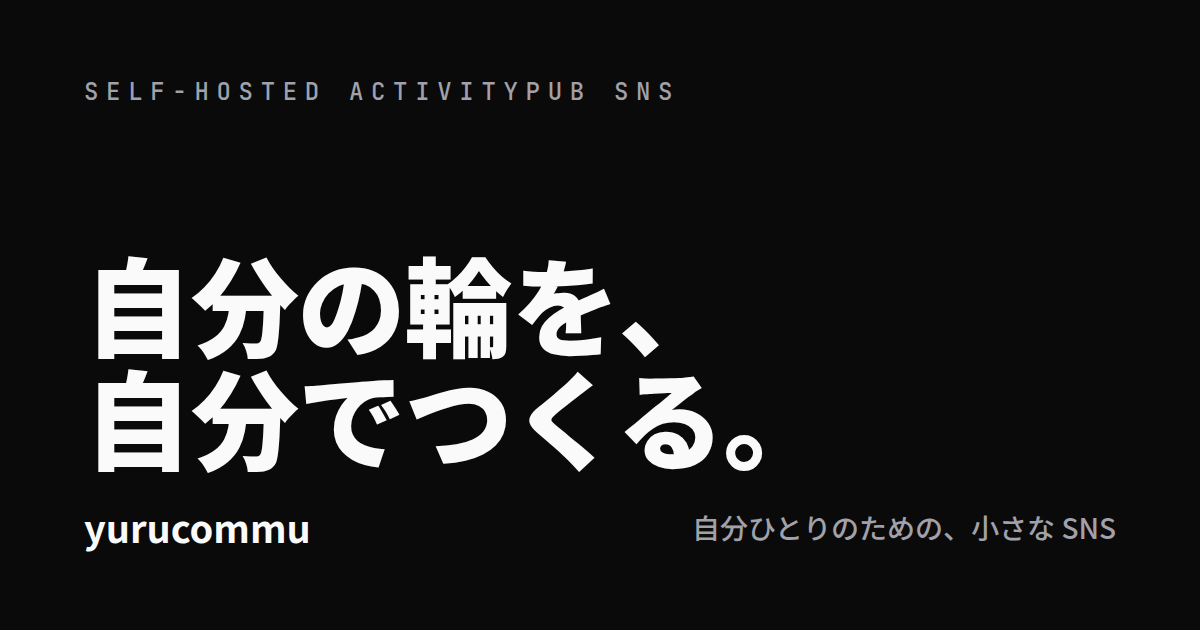
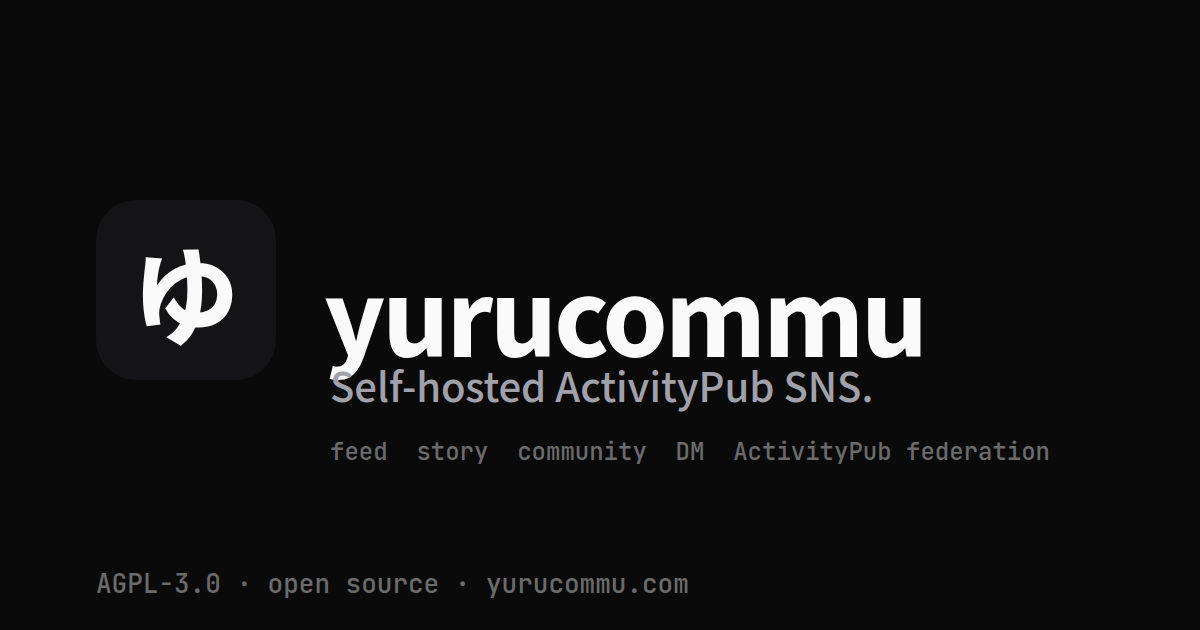
site: align the og card with the product document

diff --git a/site/img/og-template.html b/site/img/og-template.html
@@ -9,90 +9,50 @@
     <link rel="preconnect" href="https://fonts.googleapis.com" />
     <link rel="preconnect" href="https://fonts.gstatic.com" crossorigin />
     <link
-      href="https://fonts.googleapis.com/css2?family=Noto+Sans+JP:wght@500;700;900&family=JetBrains+Mono:wght@500&display=swap"
+      href="https://fonts.googleapis.com/css2?family=Noto+Sans+JP:wght@500;700;800&family=JetBrains+Mono:wght@500&display=swap"
       rel="stylesheet"
     />
     <style>
-      :root {
-        --bg: #0a0a0b;
-        --ink: #fafafa;
-        --dim: #a1a1aa;
-        --accent: #3b82f6;
-      }
-      * {
-        margin: 0;
-        padding: 0;
-        box-sizing: border-box;
-      }
-      html,
+      * { margin: 0; padding: 0; box-sizing: border-box; }
+      html, body { width: 1200px; height: 630px; }
       body {
-        width: 1200px;
-        height: 630px;
-      }
-      body {
-        background: var(--bg);
-        color: var(--ink);
+        background: #0a0a0b;
+        color: #fafafa;
         font-family: "Noto Sans JP", sans-serif;
-        position: relative;
-        overflow: hidden;
       }
-      .frame {
-        position: absolute;
-        inset: 0;
-        padding: 76px 84px;
-        display: flex;
-        flex-direction: column;
-        justify-content: space-between;
+      .frame { position: absolute; inset: 0; }
+      .mark {
+        position: absolute; left: 96px; top: 200px;
+        width: 180px; height: 180px; border-radius: 40px;
+        background: #141416;
+        display: flex; align-items: center; justify-content: center;
+        font-size: 108px; font-weight: 800; color: #fafafa;
       }
-      .eyebrow {
-        font-family: "JetBrains Mono", monospace;
-        font-weight: 500;
-        font-size: 24px;
-        letter-spacing: 0.32em;
-        color: var(--dim);
-        text-transform: uppercase;
+      .name {
+        position: absolute; left: 324px; top: 236px;
+        font-size: 104px; font-weight: 800; letter-spacing: -0.03em;
       }
-      .title {
-        font-weight: 900;
-        font-size: 108px;
-        line-height: 1.04;
-        letter-spacing: -0.01em;
-        margin-top: auto;
-        margin-bottom: 28px;
+      .desc {
+        position: absolute; left: 330px; top: 356px;
+        font-size: 40px; font-weight: 500; color: #a1a1aa;
       }
-      .row {
-        display: flex;
-        align-items: center;
-        justify-content: space-between;
+      .spec {
+        position: absolute; left: 330px; top: 436px;
+        font-family: "JetBrains Mono", monospace; font-size: 24px; color: #6b6b6b;
       }
-      .brand {
-        display: inline-flex;
-        align-items: center;
-        gap: 16px;
-        font-weight: 700;
-        font-size: 38px;
-      }
-      .brand .dot {
-        width: 18px;
-        height: 18px;
-        border-radius: 50%;
-        background: var(--accent);
-      }
-      .sub {
-        font-weight: 500;
-        font-size: 28px;
-        color: var(--dim);
+      .foot {
+        position: absolute; left: 96px; top: 566px;
+        font-family: "JetBrains Mono", monospace; font-size: 26px; color: #6b6b6b;
       }
     </style>
   </head>
   <body>
     <div class="frame">
-      <div class="eyebrow">Self-hosted ActivityPub SNS</div>
-      <div class="title">自分の輪を、<br />自分でつくる。</div>
-      <div class="row">
-        <div class="brand">yurucommu</div>
-        <div class="sub">自分ひとりのための、小さな SNS</div>
-      </div>
+      <div class="mark">ゆ</div>
+      <div class="name">yurucommu</div>
+      <div class="desc">Self-hosted ActivityPub SNS.</div>
+      <div class="spec">feed&nbsp;&nbsp;story&nbsp;&nbsp;community&nbsp;&nbsp;DM&nbsp;&nbsp;ActivityPub federation</div>
+      <div class="foot">AGPL-3.0 · open source · yurucommu.com</div>
     </div>
   </body>
 </html>
